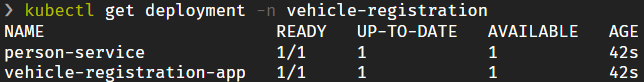
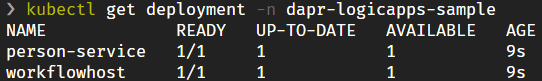
Upgrade to RC3

diff --git a/README.md b/README.md
@@ -64,11 +64,10 @@ These are the steps to take in order to start and test the application:
 
 1. Run the application by executing the `start.ps1` script.
 
-1. Wait some time for the containers to come up. Use the command `kubectl get deployment -n vehicle-registration` to check this:
+1. Wait some time for the containers to come up. Use the command `kubectl get deployment -n dapr-logicapps-sample` to check this:
 
    ![Check for running deployments](img/deployments.png)
    
-
 1. Install the [`REST Client` extension for VS Code](https://marketplace.visualstudio.com/items?itemName=humao.rest-client).
 
 1. Open the file `/src/requests/register-vehicle.http`.
@@ -76,3 +75,4 @@ These are the steps to take in order to start and test the application:
 1. Execute the request. You should receive a HTTP status-code `200 OK`.
 
 If you don't receive a response with HTTP status-code `200 OK` and the body of the vehicle record, check the logging from the containers to see where the error occurred. You can also query the workflow state tables created in the Azure Storage account. You can find the result status for every individual activity in the workflow (in the table named `flow<flow-identifier>actions`).
+
